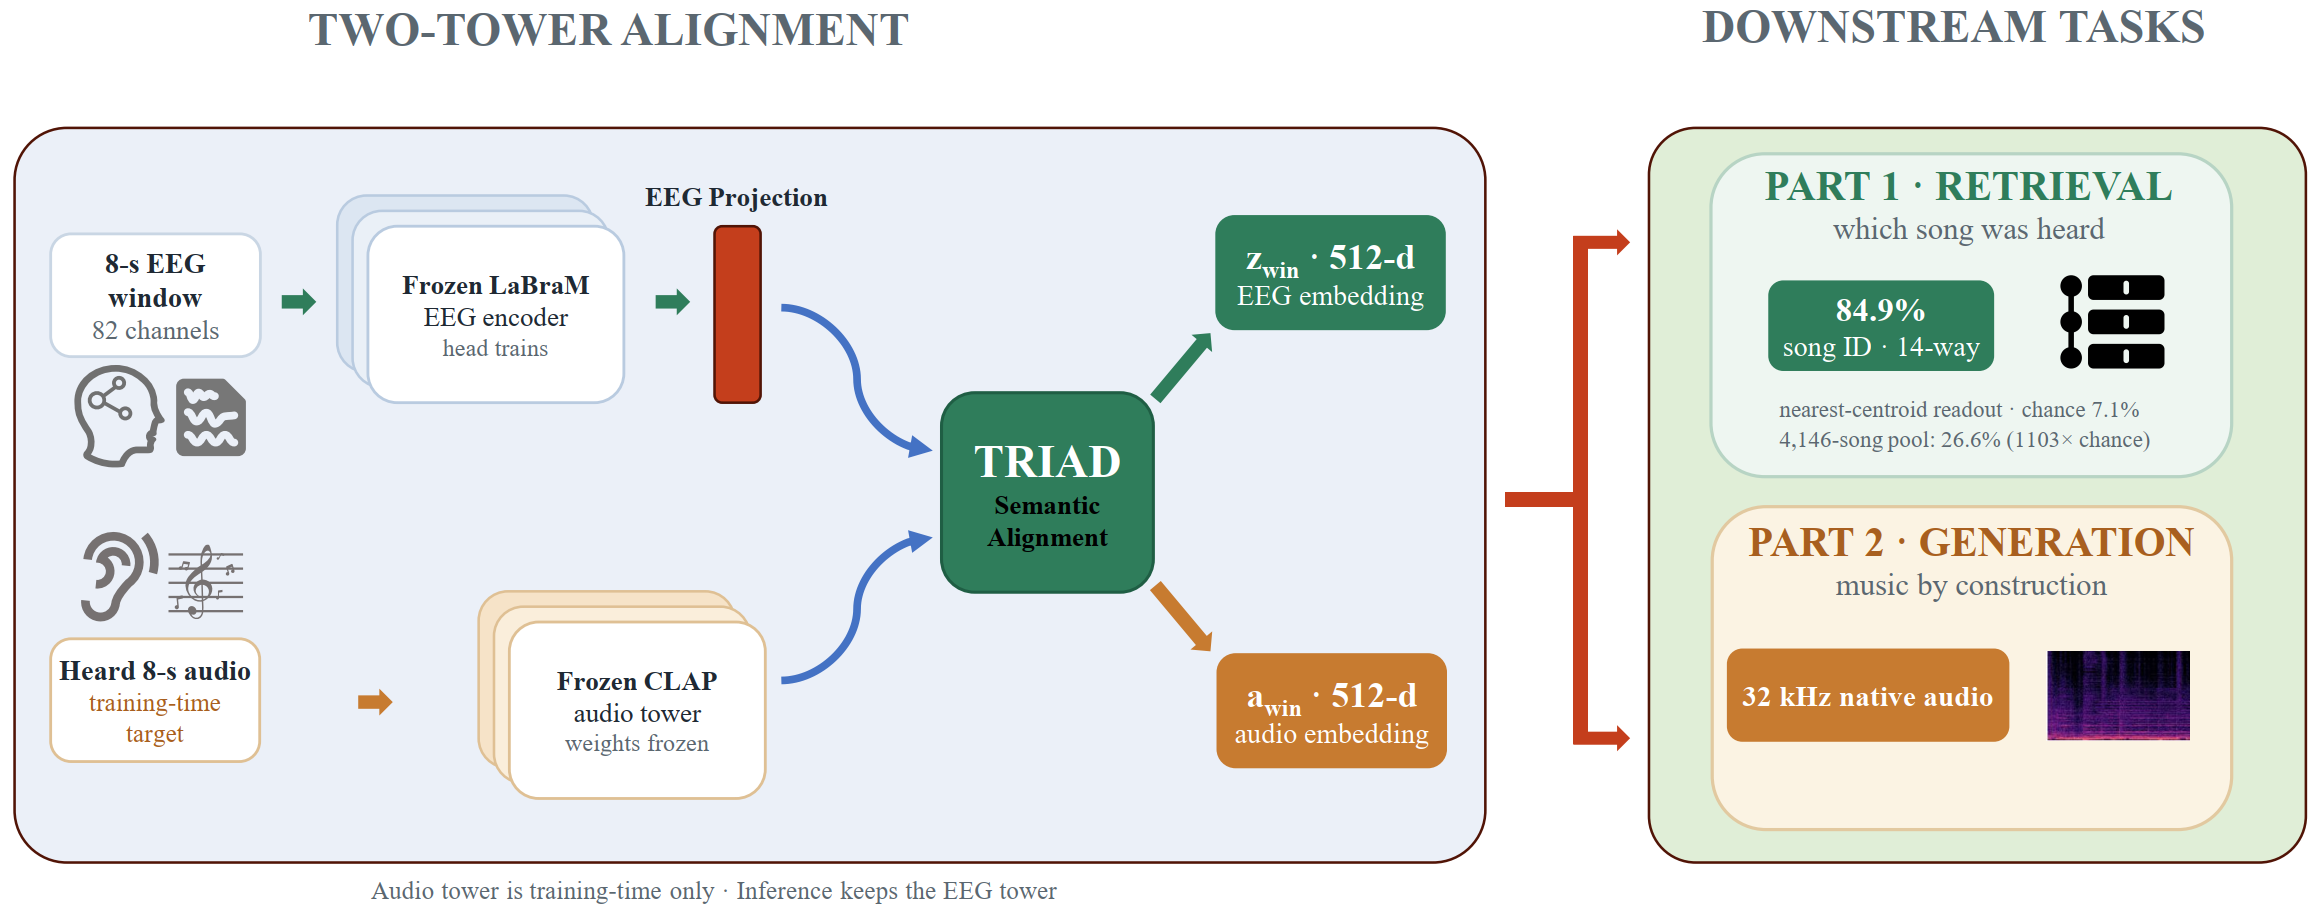
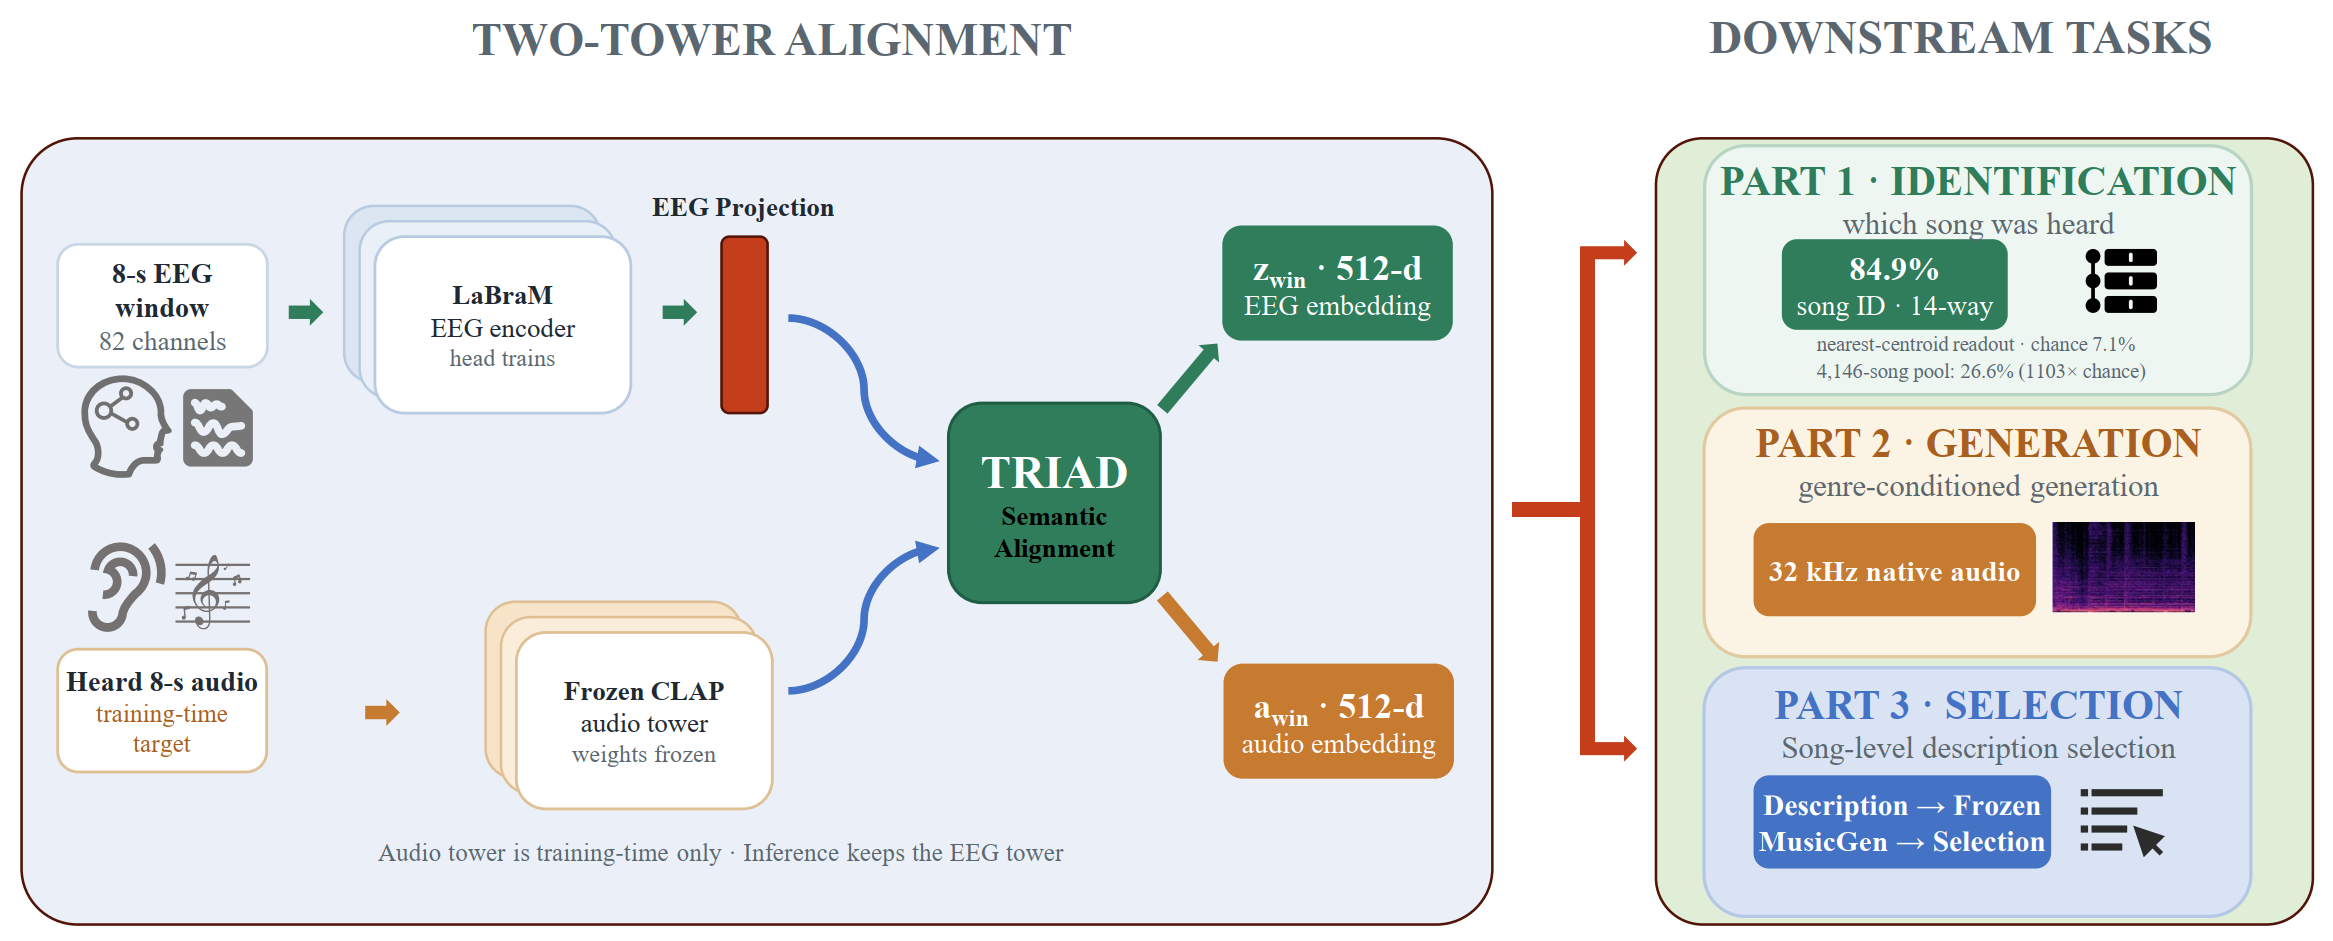
web: update Fig 0 and align it with three downstream tasks
- hand-supplied architecture diagram replaced (identification / generation / selection)
- Fig 0 caption and method lead now describe the three tasks

diff --git a/index.html b/index.html
@@ -137,22 +137,26 @@
 
   <section id="method">
     <h2>How it works</h2>
-    <p class="lead">A CLAP-style two-tower alignment produces the EEG embedding <code>z_win</code>; two heads
-      then retrieve or generate. This page shows the current version only — every number comes straight from the
-      result files. All result figures regenerate on CPU (<code>python code/figures/render_all.py</code>); the
-      system diagram (Fig 0) is hand-supplied.</p>
+    <p class="lead">A CLAP-style two-tower alignment produces the EEG embedding <code>z_win</code>; the same
+      embedding then drives three downstream tasks: song identification, genre-conditioned generation, and
+      song-level description selection. This page shows the current version only — every number comes straight
+      from the result files. All result figures regenerate on CPU
+      (<code>python code/figures/render_all.py</code>); the system diagram (Fig 0) is hand-supplied.</p>
 
     <div class="figcard">
       <span class="figno">Fig 0 · system</span>
-      <figure><img src="assets/fig/fig0_architecture.png" alt="two-tower TRIAD alignment and downstream tasks"></figure>
+      <figure><img src="assets/fig/fig0_architecture.png" alt="two-tower TRIAD alignment and three downstream tasks"></figure>
       <figcaption><b>Alignment (training).</b> 8-s EEG → LaBraM backbone → trainable projection head →
         <code>z_win</code>; heard audio → frozen CLAP → <code>a_win</code> (training-time only). Both feed
-        <b>TRIAD</b> (window / second / song). <b>Part 1</b> retrieves the heard song from <code>z_win</code>
-        through the A→L bridge: <b>84.9%</b> song-level over 36,036 queries and a 1,103-window corpus
-        (held-out segments; subjects remain in training).
-        <b>Part 2</b> maps <code>z_win</code> to weights over 12 native prompts and samples a frozen MusicGen
-        at 32 kHz. <span class="mut">The diagram shows the frozen-backbone / head variant; the 84.9% number
-        comes from the main-line arm, which also fine-tunes the LaBraM backbone (7.72M trainable).</span></figcaption>
+        <b>TRIAD</b> (window / second / song). <b>Part 1 · Identification</b> retrieves the heard song from
+        <code>z_win</code> through the A→L bridge: <b>84.9%</b> song-level over 36,036 queries and a
+        1,103-window corpus (held-out segments; subjects remain in training); under subject shift the
+        calibrated query retrieves real clips at <b>.413 / .504</b> (bandpower k=10 / 100).
+        <b>Part 2 · Generation</b> samples a frozen MusicGen at 32 kHz from a genre-conditioned prompt;
+        it is genre-level by design. <b>Part 3 · Selection</b> picks among 14 song descriptions
+        (k-shot <b>.350</b> tag / <b>.201</b> Qwen); this is text selection, not song-level audio generation.
+        <span class="mut">The diagram shows the frozen-backbone / head variant; the 84.9% number comes from the
+        main-line arm, which also fine-tunes the LaBraM backbone (7.72M trainable).</span></figcaption>
     </div>
 
     <div class="figcard">
